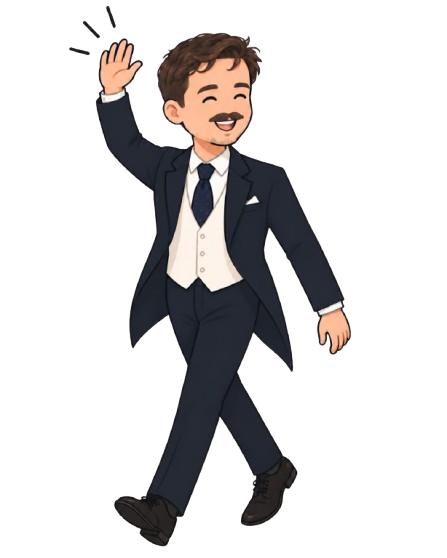
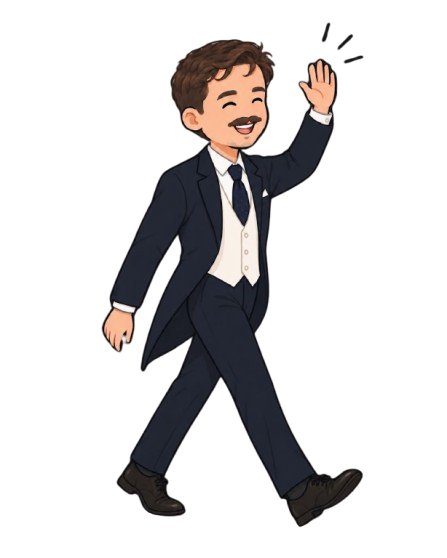
Gradientes

Changed region(s): [[0.1745, 0.0, 0.8143, 1.0], [0.7271, 0.0305, 0.7562, 0.0609], [0.1454, 0.0609, 0.1745, 0.0914]]

diff --git a/css/style.css b/css/style.css
@@ -120,8 +120,39 @@ body > .countdown {
 }
 
 body > .ceremony-image {
-  padding: 0;
+  position: relative;
+  isolation: isolate;
+  padding: 0 0 60px;
   background: transparent;
+}
+
+body > .celebration-image {
+  position: relative;
+  isolation: isolate;
+  padding: 0;
+  background: #fdf7eb url("../img/FondoBeis.PNG") center / cover no-repeat;
+}
+
+.celebration-image::before {
+  content: "";
+  position: absolute;
+  inset: 0;
+  z-index: 1;
+  pointer-events: none;
+  background: linear-gradient(to bottom, transparent 72%, rgba(253, 247, 235, 0.35) 86%, #fdf7eb 100%);
+  -webkit-mask-image: none;
+  mask-image: none;
+}
+
+.ceremony-image::before {
+  content: "";
+  position: absolute;
+  inset: 0;
+  z-index: -1;
+  pointer-events: none;
+  background: #fdf7eb url("../img/FondoBeis.PNG") center / cover no-repeat;
+  -webkit-mask-image: linear-gradient(to bottom, #000 calc(100% - 60px), transparent 100%);
+  mask-image: linear-gradient(to bottom, #000 calc(100% - 60px), transparent 100%);
 }
 
 .ceremony-image > img {
@@ -129,6 +160,13 @@ body > .ceremony-image {
   margin: 0 auto;
   width: 60%;
   height: auto;
+}
+
+.celebration-image > img {
+  display: block;
+  width: 100%;
+  height: auto;
+  margin: 0 auto;
 }
 
 .ceremony-text,
@@ -828,16 +866,21 @@ body > footer {
 }
 
 /* Las secciones dejan ver el fondo continuo; se conservan las ilustraciones principales. */
-body > section:not(.hero):not(.ceremony-image):not(.celebration-image):not(.countdown):not(.celebration-link):not(.playlist),
+body > section:not(.hero):not(.ceremony-image):not(.celebration-image):not(.countdown):not(.ceremony-link):not(.celebration-link):not(.playlist),
 body > footer {
   background: transparent;
   color: #000;
 }
 
-/* Fondo beige para el contador y el enlace de la celebración. */
+/* Fondo beige para el contador y los enlaces de ubicación. */
 body > section.countdown,
+body > section.ceremony-link,
 body > section.celebration-link {
   background: #fdf7eb url("../img/FondoBeis.PNG") center / cover no-repeat;
+}
+
+body > section.celebration-link {
+  background: transparent;
 }
 
 @media print {

diff --git a/index.html b/index.html
@@ -65,11 +65,13 @@
 
   <!-- TIMELINE -->
   <section id="timeline" class="timeline" aria-label="Timeline">
-      <img src="img/timeline.jpg" alt="Programa del día de la boda" loading="lazy">
+      <img src="img/timeline.jpeg" alt="Programa del día de la boda" loading="lazy">
   </section>
 
   <!-- 4⃣ CELEBRACIÓN -->
-  <section class="celebration-image" aria-label="Imagen de la celebración"></section>
+  <section class="celebration-image" aria-label="Imagen de la celebración">
+    <img src="img/FondoCelebracion.jpeg" alt="Celebración">
+  </section>
 
   <section class="celebration-text">
     <img src="img/ImagenCelebracion.png" alt="Información de la celebración">
